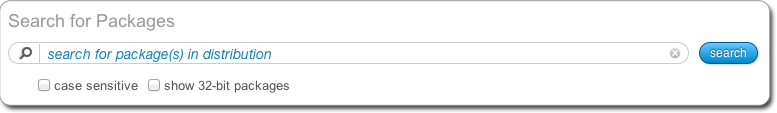
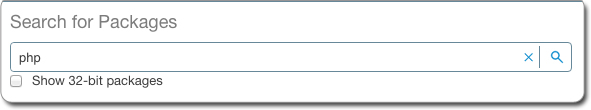
updates to the templating section with new graphics

Changed region(s): [[0.0, 0.0, 1.0, 0.9818], [0.0, 0.8727, 0.0305, 0.9818]]

diff --git a/end-user/en/source/pages/templating/appliance-osprofile.rst b/end-user/en/source/pages/templating/appliance-osprofile.rst
@@ -33,17 +33,14 @@ You may want to add packages that are provided as part of the operating system d
 	1. Select the appliance to modify and go to the ``Stack`` page.
 	2. Click on ``OS Profile`` in the toolbox.
 	3. Click on the ``search`` button in the top right hand.
-	4. Enter your search string. For example, add ``php`` as a search string to get a list of all the PHP packages provided by CentOS.
+	4. Enter your search string. For example, add ``php`` as a search string to get a list of all the PHP packages provided by CentOS. Click the search icon.
 
 	.. image:: /images/search-packages.jpg
 
-	5. You can filter the results by selecting ``case-sensitive`` and/or ``32-bit packages``.
-	6. Click ``search``.
-	7. You can filter the results further by using the table filter.
+	5. Optionally you can filter the results by selecting ``32-bit packages`` or by entering text in the ``filter`` box.
+	6. Select the packages you want to add.
+	7. Click the ``save`` button to add the packages to the OS profile.
 
-	.. image:: /images/filter-package-search.jpg
+.. note:: When you create an appliance, the packages are stored locally in the UForge cache repository. This ensures that the packages will always be available. However, UForge tracks all available updates. 
 
-	8. Select the packages you want to add.
-	9. Click the ``save`` button to add the packages to the OS profile.
-
-.. note:: When you create an appliance, the packages are stored locally in the UForge cache repository. This ensures that the packages will always be available. However, UForge tracks all available updates. For more information on package updates, see :ref:`appliance-pkg-updates`.
+For more information on package updates, see :ref:`appliance-pkg-updates`. If you want to make sure you always have a specific version of a package, read :ref:`appliance-pkg-updates-sticky`.

diff --git a/end-user/en/source/pages/templating/appliance-os-updates.rst b/end-user/en/source/pages/templating/appliance-os-updates.rst
@@ -7,7 +7,13 @@ Tracking OS Package Updates
 
 All the OS packages added to the OS Profile section of the appliance templates are tracked for any updates by UForge AppCenter. Based on a timestamp stored in the appliance template, UForge AppCenter can detect any OS package updates that are available.  Updates are displayed in the user interface for each appliance template.
 
-.. image:: /images/appliance-os-updates.jpg
+If you are in grid view:
+
+.. image:: /images/os-updates-grid.jpg
+
+If you are in table view, it is listed in the Updates column:
+
+.. image:: /images/os-updates-list.jpg
 
 You can then easily update the packages using the UForge GUI. Using this tool, you can also roll-back to previous versions of OS packages.
 
@@ -23,13 +29,13 @@ To update the OS packages:
 
 	4. You can select current updates (if any) or select to return to a previous version of the OS by moving the cursor on the graph.
 
-	5. Click simulate at the bottom to see the changes that will be applied. The changes will be listed in the bottom table. Scroll to view the results.
+	5. Click ``simulate`` to see the changes that will be applied. The changes will be listed in the bottom of the screen. Scroll to view the results.
 
-	.. image:: /images/os-profile-updates-simulate.jpg
+	.. image:: /images/os-profile-profile-updates.jpg
 
-	6. If you want to apply the changes listed, then click update.
+	6. If you want to apply the changes listed, then click ``update``.
 
-.. note:: M indicates a Milestone. For Centos, this is the versions (6.1, 6.2 etc). Milestones are customized by the UForge administrator.
+.. note:: The triangle indicates a Milestone. For Centos, this is the versions (6.1, 6.2 etc). Milestones are customized by the UForge administrator.
 
 .. _windows-update:
 

diff --git a/end-user/en/source/pages/templating/appliance-generate.rst b/end-user/en/source/pages/templating/appliance-generate.rst
@@ -10,16 +10,13 @@ Once an appliance template has been created, you can generate a machine image th
 To generate a machine image:
 	1. Go to the ``VM Builder`` tab.
 	2. Select the appliance from the ``Appliance Library``. 
-	3. Click on the ``generate`` button at the top right to display all possible image formats which can be generated. The formats are organized by type.
-
-	.. image:: /images/appliance-generate-image.jpg
-
+	3. Click on the ``generate`` button at the top right to display all possible image formats which can be generated. The formats are organized by type: Cloud, Container, Virtual, Physical.
 	4. Choose the image format you would like to generate. 
 	5. You will see a recap of the image you are about to generate. 
 
 	.. note:: If you want to ignore dependency checking during image generation (for example because you have knowingly removed a package dependency that is not required in your environment), then you check the option ``ignore dependency checking warnings``. Note that this is an advanced option and should not be used systematically.
 
-	6. You can set the disk size, then click the ``Generate`` button to launch a generation in UForge for this appliance template. 
+	6. You can set the disk size, then click the ``generate`` button to launch a generation in UForge for this appliance template. 
 
 	.. note:: Depending on the packages you install and the size of your software, make sure that the disk size is large enough to accommodate the software to be installed.
 

diff --git a/end-user/en/source/pages/templating/appliance-publish.rst b/end-user/en/source/pages/templating/appliance-publish.rst
@@ -9,10 +9,11 @@ In order to publish a machine image to a cloud environment, you must already hav
 
 	1. If not already done, create a new cloud account for the target environment.  For more informatin, see :ref:`account-cloud-accounts` 
 	2. Go to the appliance and click the ``Machine Images`` page. If you have not generated a machine image, you will need to do so as described in :ref:`appliance-generate-machine-image`.
-	3. Click on the green arrow to publish your image.
-	4. Following the instructions, by choosing the cloud account to use and fill in any additional information required.
-	5. Click ``publish``.
+	3. Click on the arrow to publish your image.
 
-	.. image:: /images/appliance-publish-image.jpg
+	.. image:: /images/machine-image-publish.jpg
+
+	4. Following the instructions, choose the cloud account to use and fill in any additional information required.
+	5. Click ``publish``.
 
 .. note:: Publishing an image to Amazon will launch an instance and therefore will be billed to the user account. Azure trial accounts are not supported for publishing images from UForge. Only full Azure accounts can be used. 
